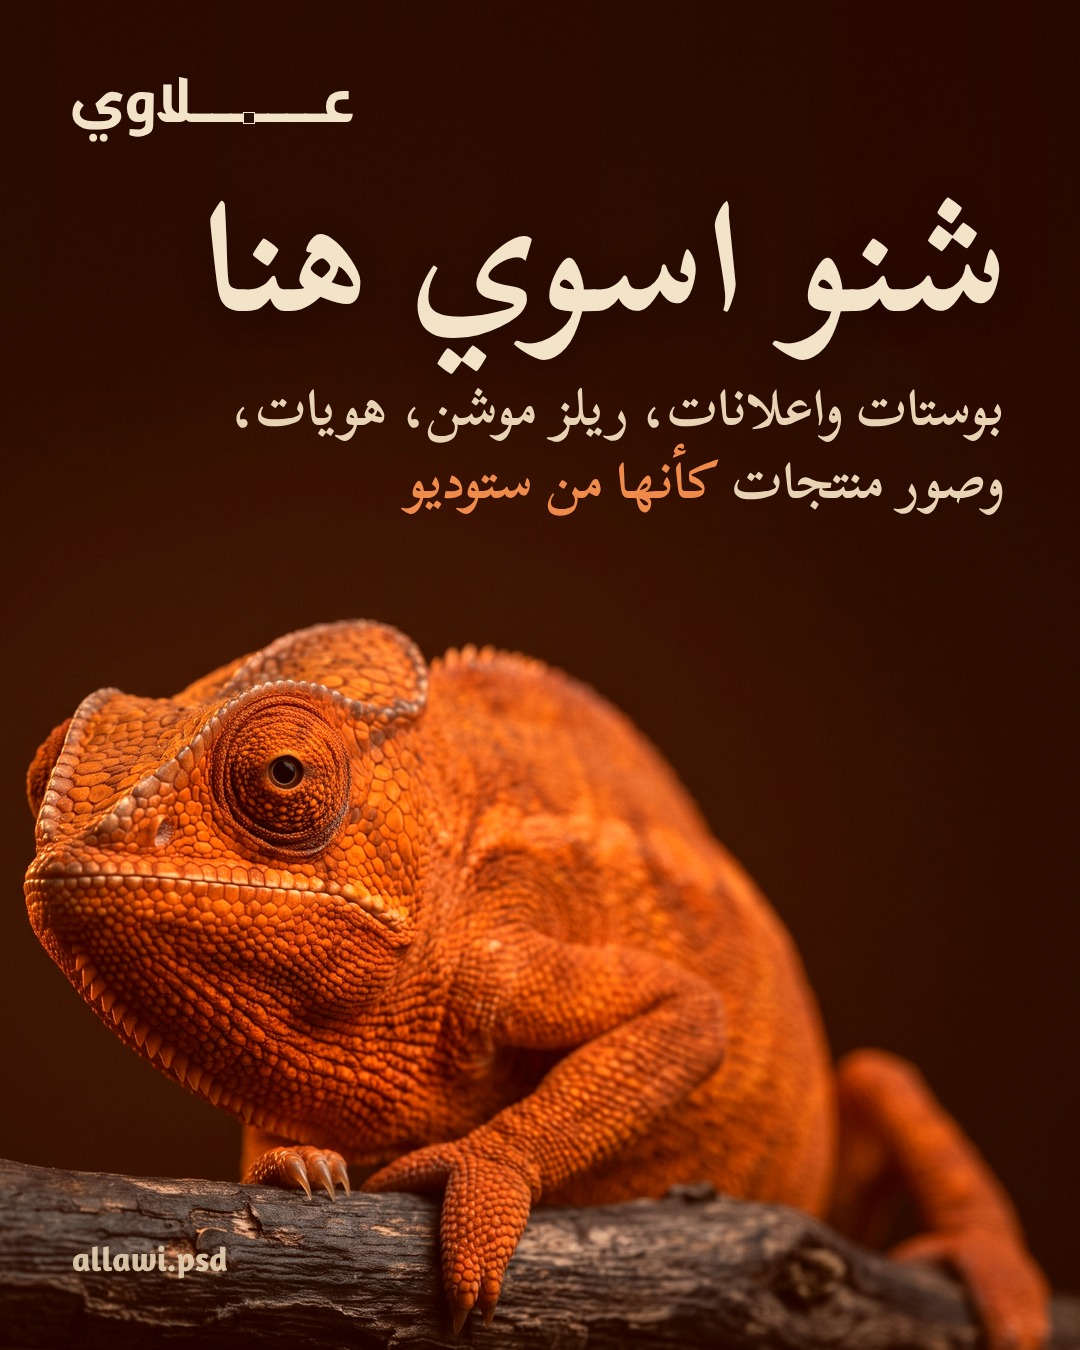
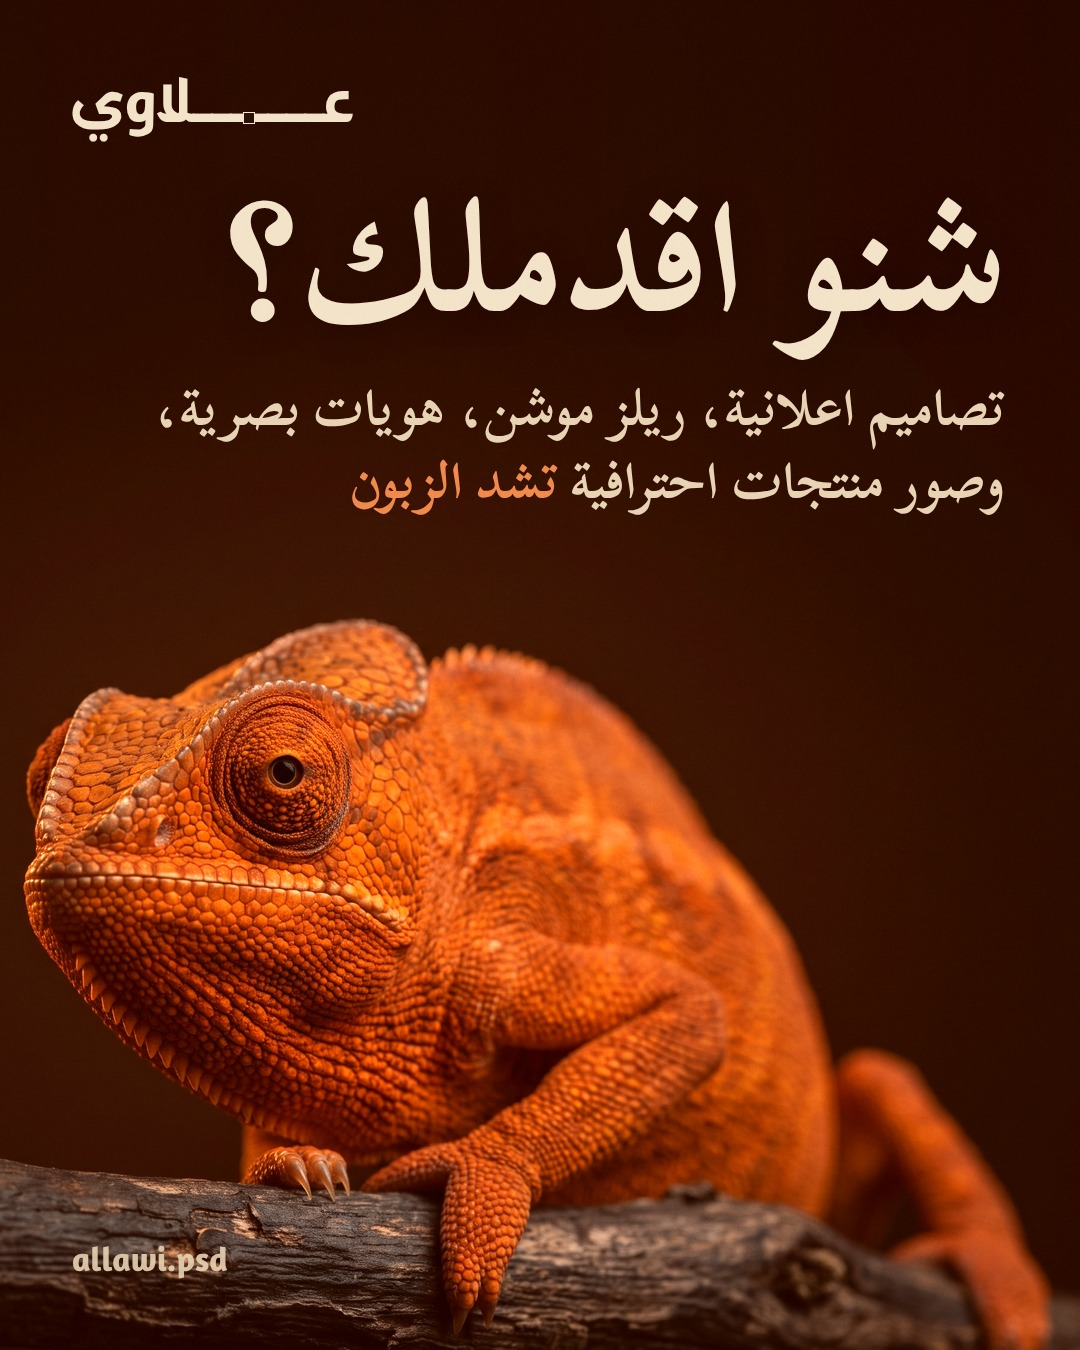
Rebrand carousel: new slide texts

Changed region(s): [[0.1833, 0.1244, 0.9167, 0.4044], [0.1528, 0.28, 0.1833, 0.3111]]

diff --git a/marketing/rebrand/post-2.html b/marketing/rebrand/post-2.html
@@ -25,8 +25,8 @@
 <body>
 <div class="art" id="slide2">
   <span class="wm"><span class="t">عـــــــلاوي</span><span class="h"></span></span>
-  <h1>شنو اسوي هنا</h1>
-  <div class="sub">بوستات واعلانات، ريلز موشن، هويات،<br>وصور منتجات <b>كأنها من ستوديو</b></div>
+  <h1>شنو اقدملك؟</h1>
+  <div class="sub">تصاميم اعلانية، ريلز موشن، هويات بصرية،<br>وصور منتجات احترافية <b>تشد الزبون</b></div>
   <div class="handle">allawi.psd</div>
 </div>
 <script>

diff --git a/marketing/rebrand/post-3.html b/marketing/rebrand/post-3.html
@@ -26,7 +26,7 @@
 <div class="art" id="slide3">
   <span class="wm"><span class="t">عـــــــلاوي</span><span class="h"></span></span>
   <h1>دزلي بالخاص</h1>
-  <div class="sub">كلي شنو تبيع ووين تنشر،<br>وارجعلك بأول شي <b>راح اغيره</b></div>
+  <div class="sub">احجيلي عن مشروعك وشنو تبيع،<br>وخلي نرتبلك شغل <b>يبرزك بالسوك</b></div>
   <div class="handle">allawi.psd</div>
 </div>
 <script>

diff --git a/marketing/rebrand/post-1.html b/marketing/rebrand/post-1.html
@@ -26,7 +26,7 @@
 <div class="art" id="slide1">
   <span class="wm"><span class="t">عـــــــلاوي</span><span class="h"></span></span>
   <h1>غيرت لوني</h1>
-  <div class="sub">الصفحة بشكلها الجديد<span>وهذا اول بوست بيه</span></div>
+  <div class="sub">ثيم جديد للحساب<span>وانطلاقة بشغل أقوى</span></div>
   <div class="handle">allawi.psd</div>
 </div>
 <script>
